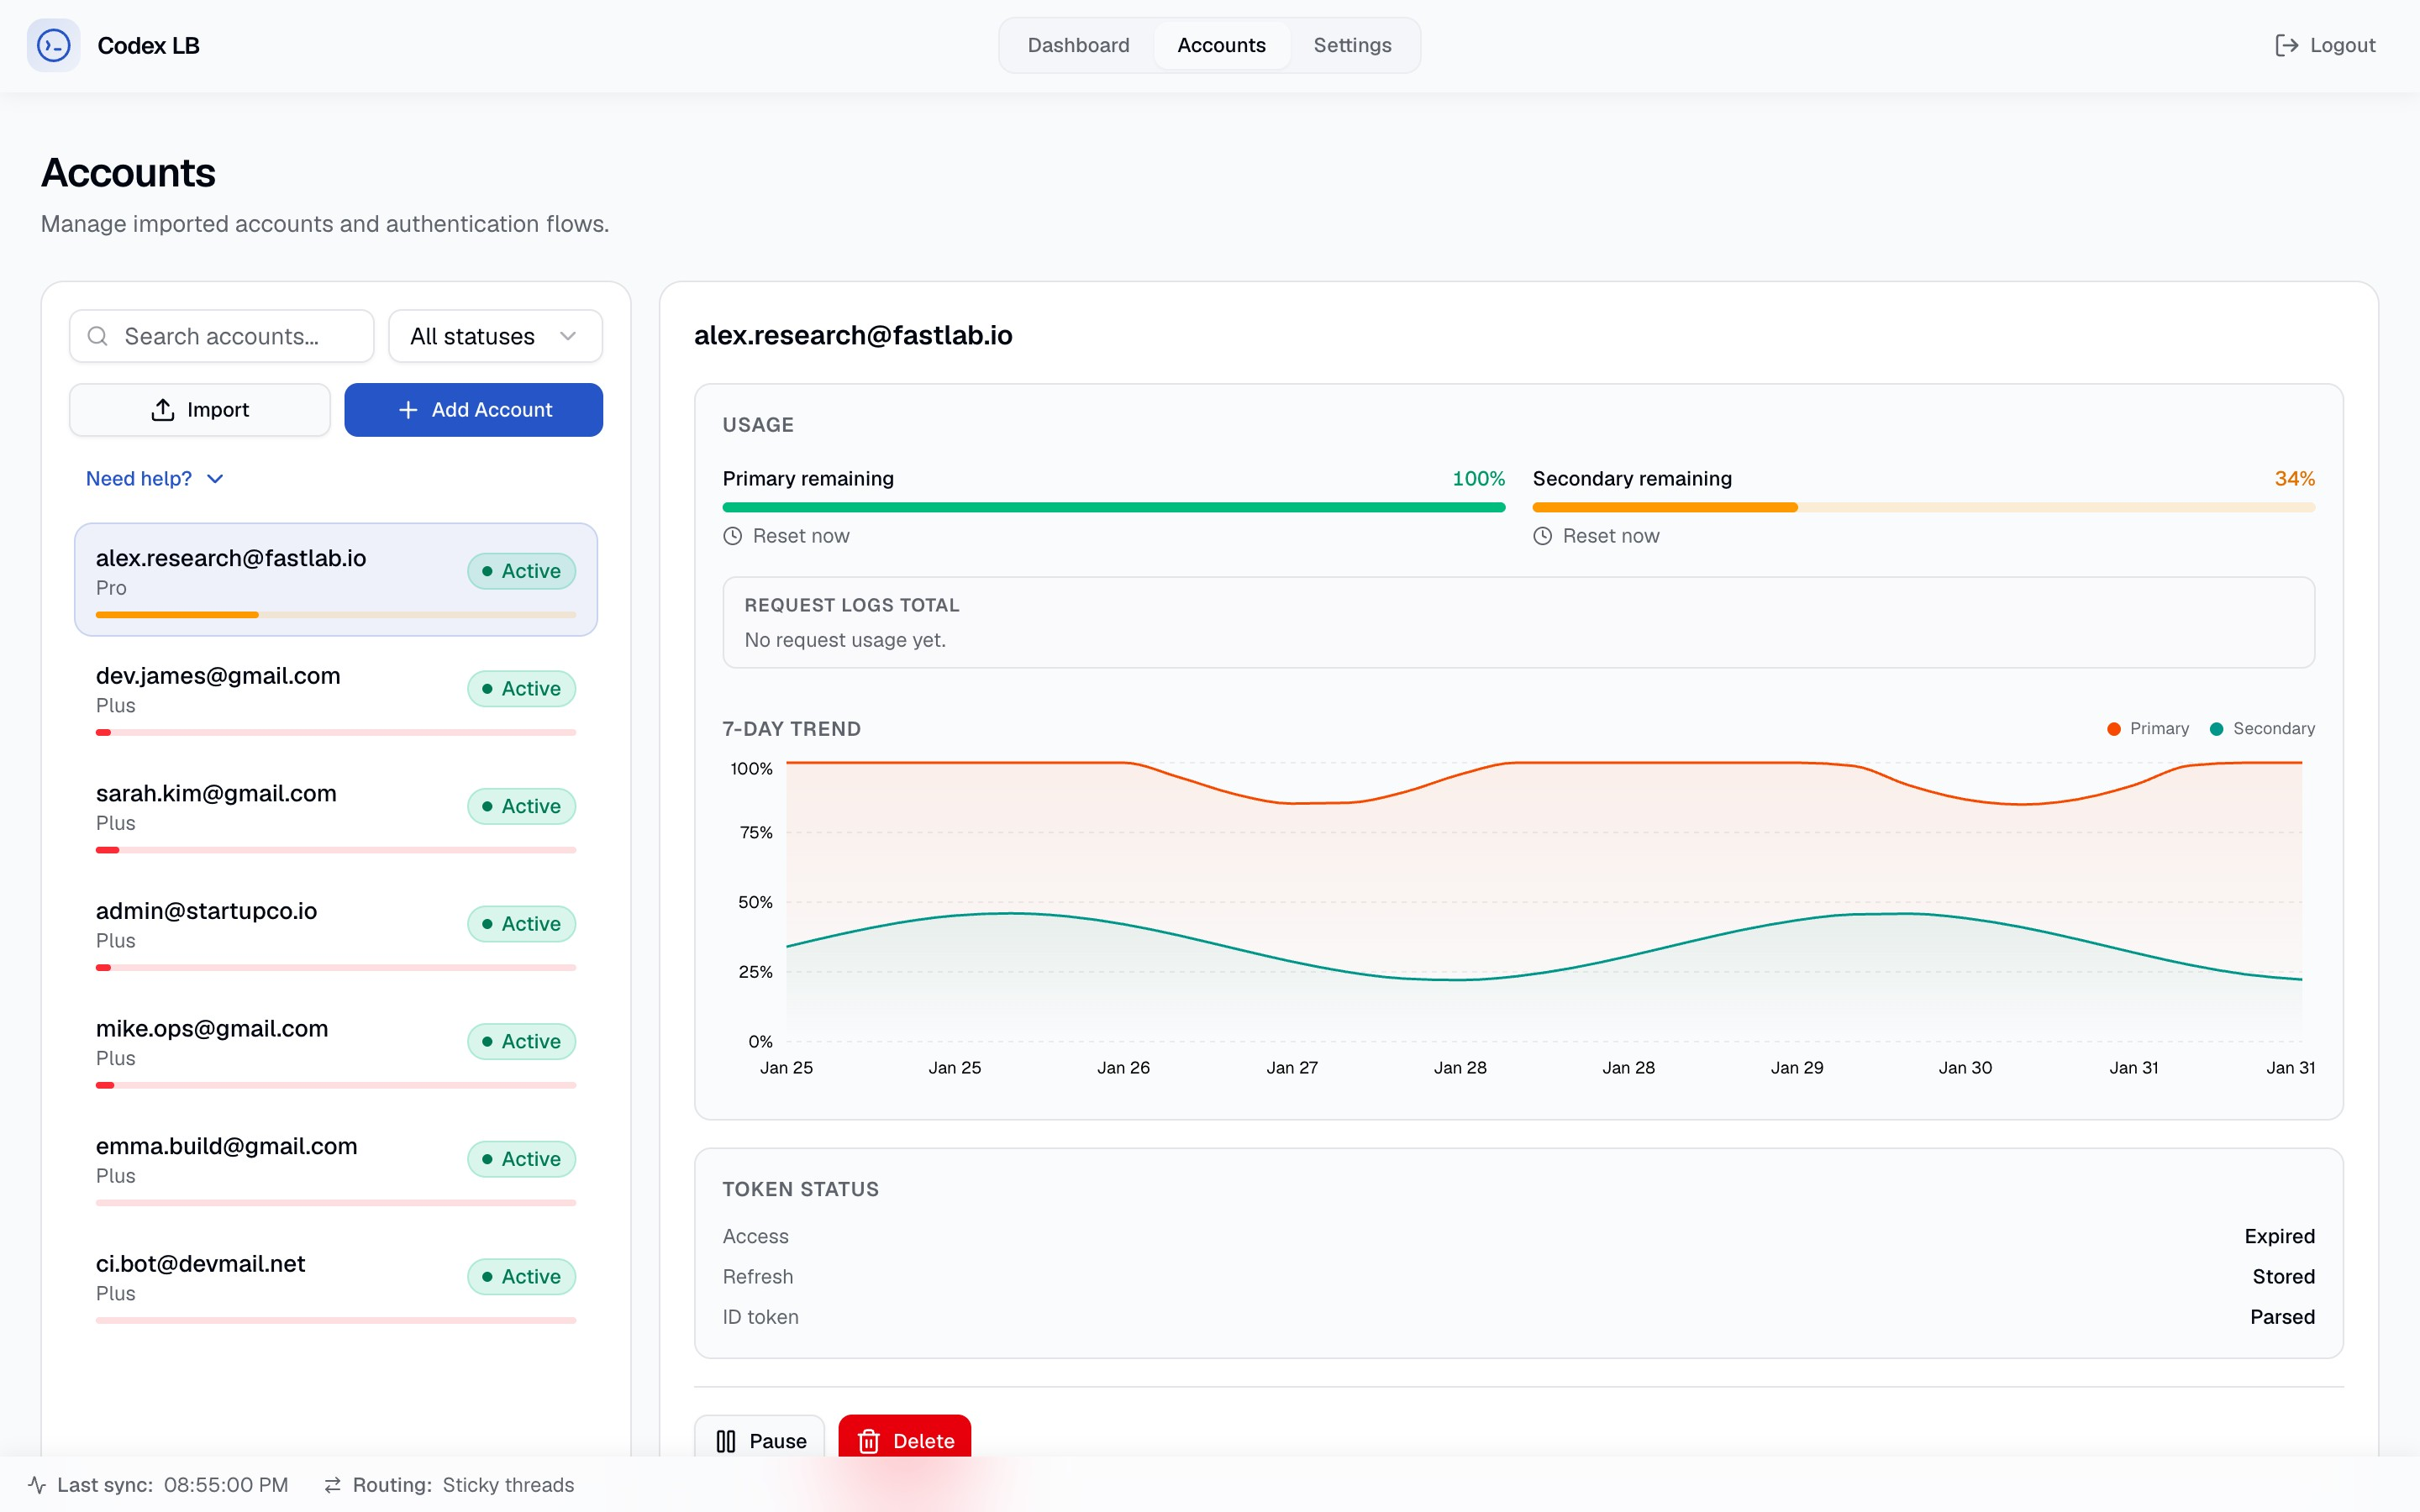
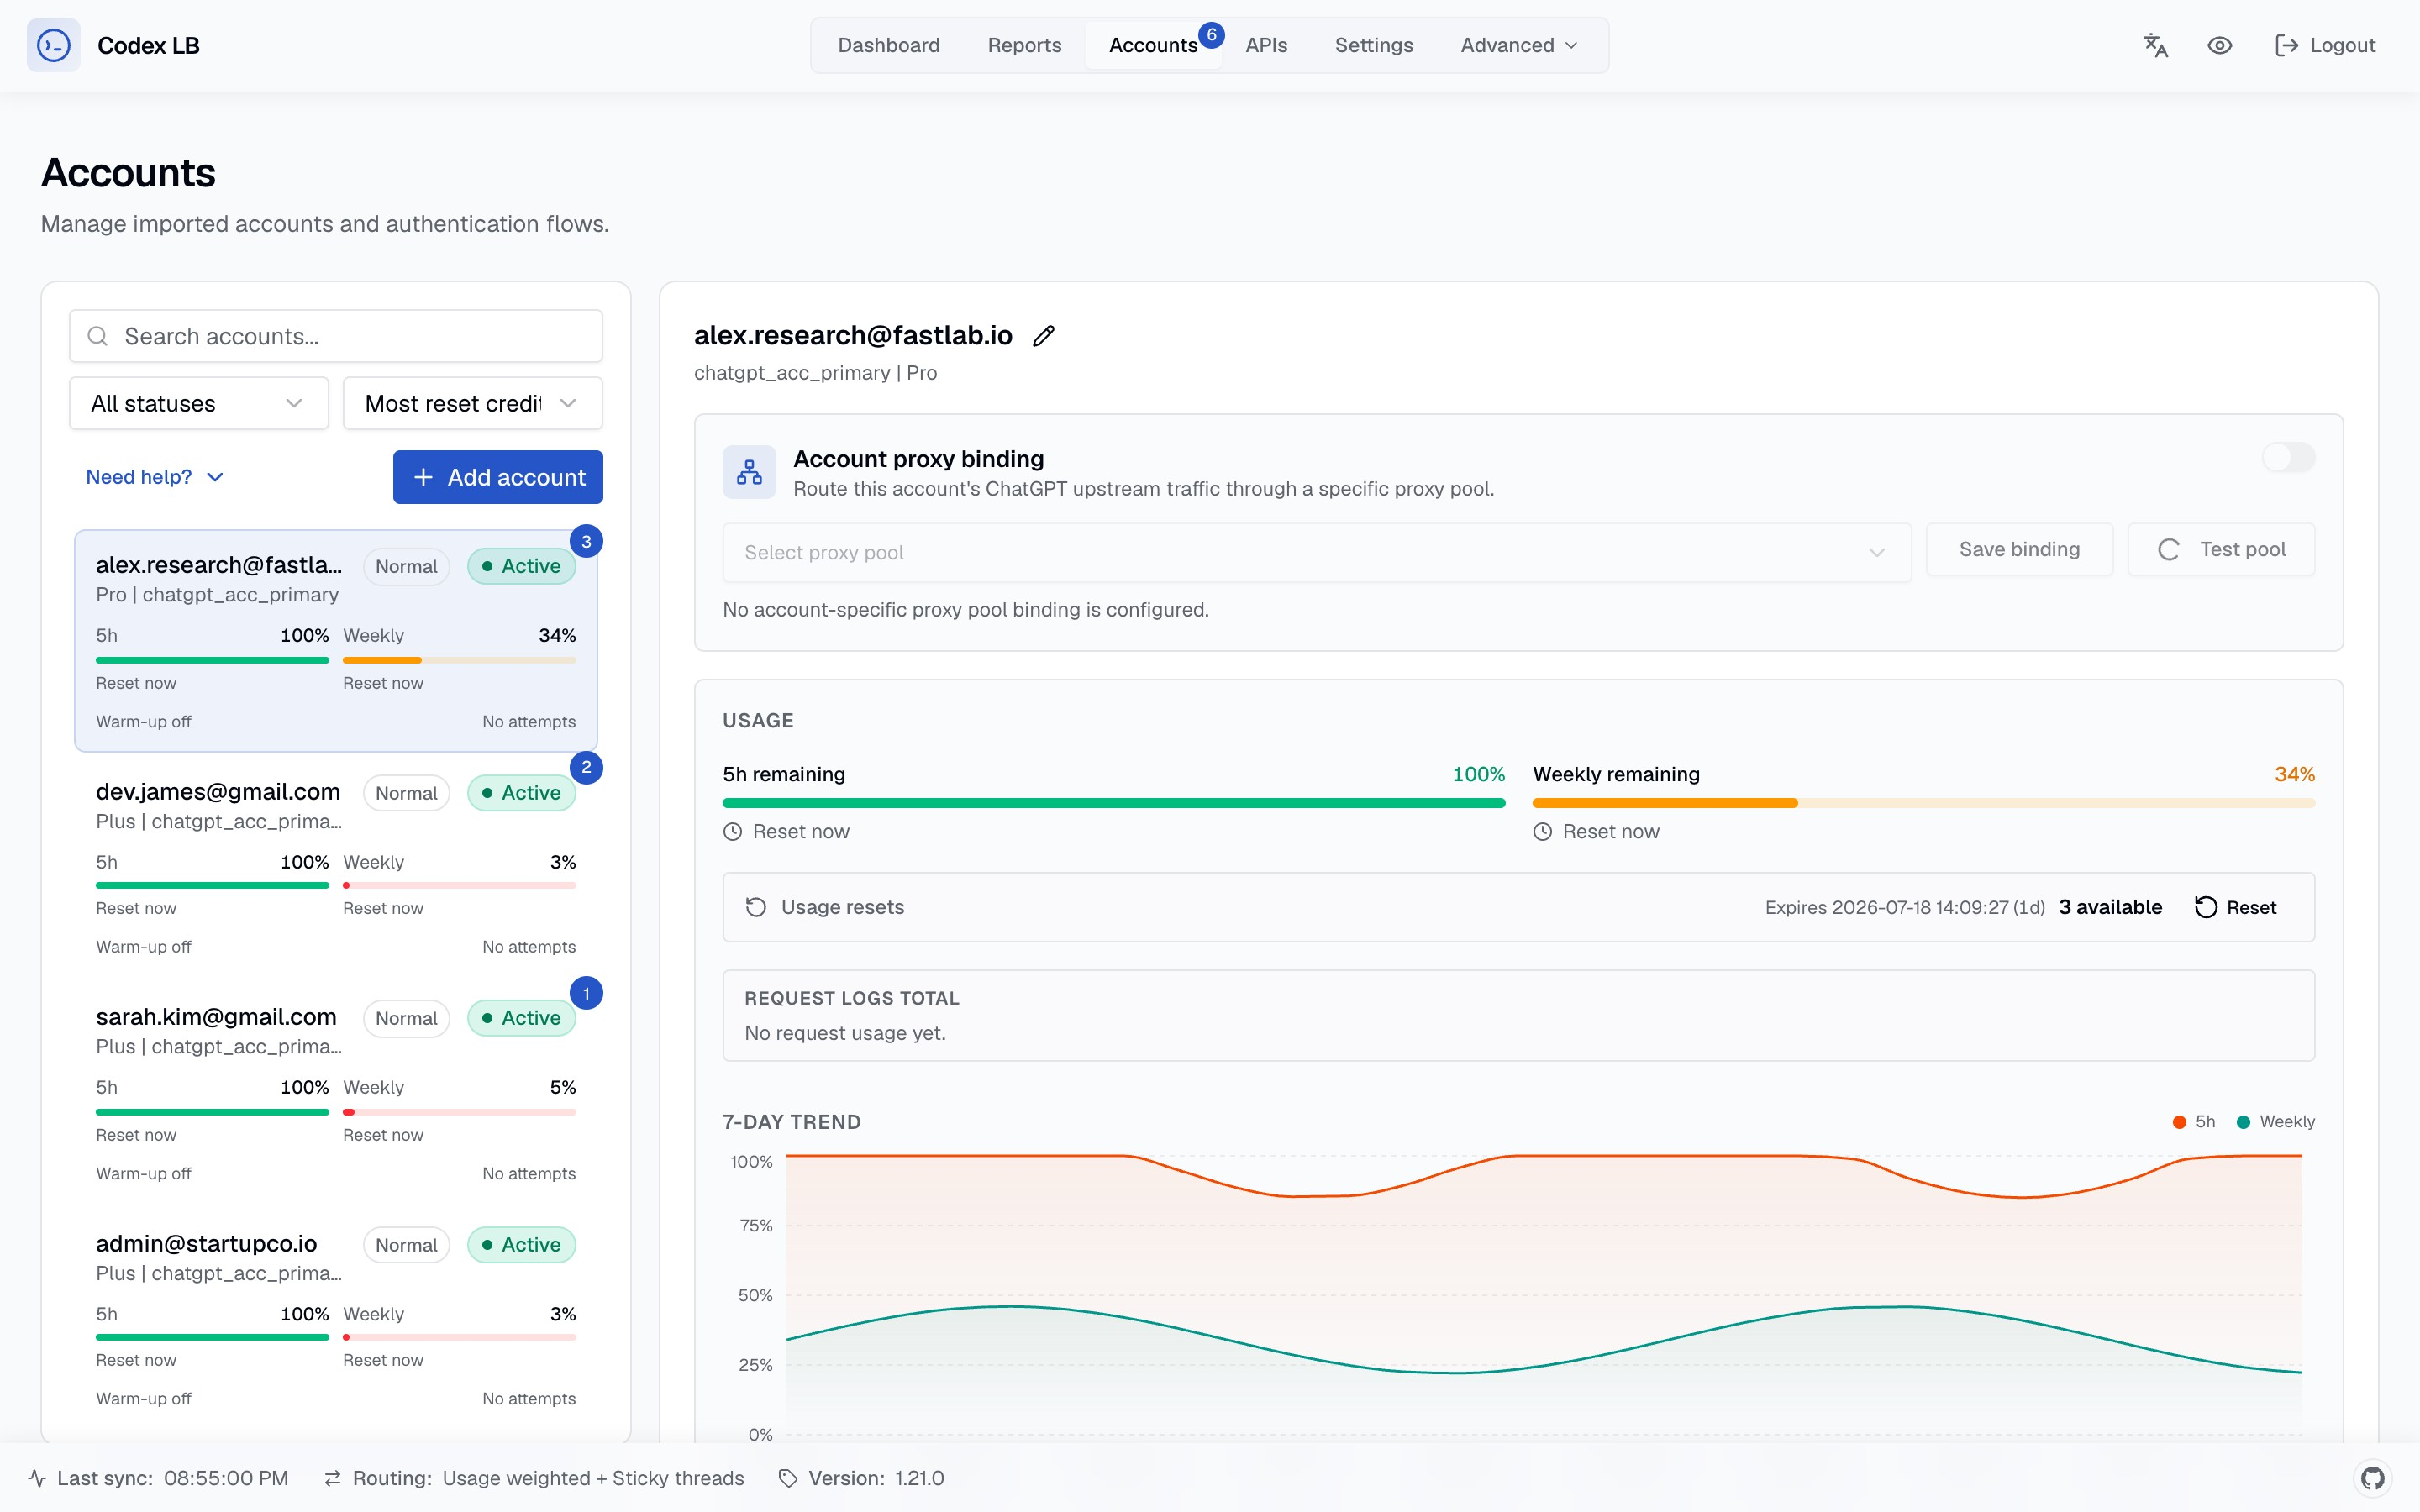
docs(screenshots): show reset-credit account badges

diff --git a/frontend/screenshots/fixtures.ts b/frontend/screenshots/fixtures.ts
@@ -8,10 +8,12 @@ import {
   createRequestLogEntry,
   createRequestLogFilterOptions,
   createRequestLogsResponse,
+  createUpstreamProxyAdmin,
   type AccountSummary,
   type AccountTrendsResponse,
   type RequestLogEntry,
 } from "../src/test/mocks/factories";
+import type { RateLimitResetCreditsSnapshot } from "../src/features/accounts/schemas";
 
 // ── Time helpers ──
 
@@ -23,6 +25,10 @@ function offsetIso(minutes: number): string {
 
 function trendIso(hoursAgo: number): string {
   return new Date(BASE_TIME.getTime() - hoursAgo * 3600_000).toISOString();
+}
+
+function futureIso(days: number): string {
+  return new Date(Date.now() + days * 24 * 3600_000).toISOString();
 }
 
 // ── 7 accounts (6 plus + 1 pro) — based on real W04 proportions ──
@@ -43,6 +49,8 @@ export const accounts: AccountSummary[] = [
     usage: { primaryRemainingPercent: 100, secondaryRemainingPercent: 34 },
     resetAtPrimary: offsetIso(48),
     resetAtSecondary: offsetIso(3 * 24 * 60),
+    availableResetCredits: 3,
+    resetCreditNearestExpiresAt: futureIso(2),
   }),
   // Plus accounts — distributed remaining traffic
   createAccountSummary({
@@ -54,6 +62,8 @@ export const accounts: AccountSummary[] = [
     usage: { primaryRemainingPercent: 100, secondaryRemainingPercent: 3 },
     resetAtPrimary: offsetIso(52),
     resetAtSecondary: offsetIso(3 * 24 * 60),
+    availableResetCredits: 2,
+    resetCreditNearestExpiresAt: futureIso(4),
   }),
   createAccountSummary({
     accountId: "acc_03",
@@ -64,6 +74,8 @@ export const accounts: AccountSummary[] = [
     usage: { primaryRemainingPercent: 100, secondaryRemainingPercent: 5 },
     resetAtPrimary: offsetIso(55),
     resetAtSecondary: offsetIso(3 * 24 * 60),
+    availableResetCredits: 1,
+    resetCreditNearestExpiresAt: futureIso(7),
   }),
   createAccountSummary({
     accountId: "acc_04",
@@ -492,6 +504,37 @@ export const unauthenticatedSession = createDashboardAuthSession({
 });
 
 export const settings = createDashboardSettings();
+
+export const upstreamProxyAdmin = createUpstreamProxyAdmin({
+  endpoints: [],
+  pools: [],
+  bindings: [],
+});
+
+export const resetCreditSnapshots: Record<string, RateLimitResetCreditsSnapshot> = Object.fromEntries(
+  accounts.map((account) => {
+    const availableCount = account.availableResetCredits ?? 0;
+    const nearestExpiresAt = account.resetCreditNearestExpiresAt ?? null;
+    return [
+      account.accountId,
+      {
+        availableCount,
+        nearestExpiresAt,
+        credits: Array.from({ length: availableCount }, (_, index) => ({
+          id: `${account.accountId}_reset_credit_${index + 1}`,
+          status: "available",
+          resetType: "rate_limit",
+          grantedAt: offsetIso(-24 * 60),
+          expiresAt: nearestExpiresAt,
+          title: "Rate limit reset",
+          description: "Mock dashboard screenshot credit",
+          redeemedAt: null,
+          redeemStartedAt: null,
+        })),
+      },
+    ];
+  }),
+);
 
 export const filterOptions = createRequestLogFilterOptions({
   accountIds: accounts.map((a) => a.accountId),

diff --git a/frontend/screenshots/capture.spec.ts b/frontend/screenshots/capture.spec.ts
@@ -12,13 +12,16 @@ import {
   models,
   overview,
   requestLogs,
+  resetCreditSnapshots,
   settings,
+  upstreamProxyAdmin,
   unauthenticatedSession,
 } from "./fixtures";
 import { createAccountSummary } from "../src/test/mocks/factories";
 
 const __dirname = path.dirname(fileURLToPath(import.meta.url));
 const SCREENSHOT_DIR = path.resolve(__dirname, "../../docs/screenshots");
+const BASE_URL = process.env.SCREENSHOT_BASE_URL ?? "http://localhost:4173";
 const THEME_KEY = "codex-lb-theme";
 const SETTLE_MS = 1500;
 
@@ -70,6 +73,20 @@ async function interceptApi(
       return route.fulfill({ status: 404, contentType: "application/json", body: JSON.stringify({ error: { code: "account_not_found", message: "Account not found" } }) });
     }
     if (p === "/api/settings") return fulfill(route, settings);
+    if (p === "/api/settings/upstream-proxy") return fulfill(route, upstreamProxyAdmin);
+    const usageResetCreditsMatch = p.match(/^\/api\/accounts\/([^/]+)\/usage-reset-credits$/);
+    if (usageResetCreditsMatch) {
+      const accountId = decodeURIComponent(usageResetCreditsMatch[1]);
+      const snapshot = resetCreditSnapshots[accountId];
+      return fulfill(route, {
+        accountId,
+        rateLimitResetCredits: { availableCount: snapshot?.availableCount ?? 0 },
+      });
+    }
+    const resetCreditsMatch = p.match(/^\/api\/accounts\/([^/]+)\/rate-limit-reset-credits$/);
+    if (resetCreditsMatch) {
+      return fulfill(route, resetCreditSnapshots[decodeURIComponent(resetCreditsMatch[1])] ?? null);
+    }
     if (p === "/api/models") return fulfill(route, { models });
     if (p === "/api/api-keys" || p === "/api/api-keys/") return fulfill(route, apiKeys);
 
@@ -116,7 +133,7 @@ async function capture(
     (document.head ?? document.documentElement).appendChild(style);
   }, DISABLE_ANIMATIONS_CSS);
 
-  await page.goto(`http://localhost:4173${opts.route}`, { waitUntil: "networkidle" });
+  await page.goto(`${BASE_URL}${opts.route}`, { waitUntil: "networkidle" });
 
   if (opts.waitFor) {
     await page.waitForSelector(opts.waitFor, { timeout: 10_000 });
@@ -183,7 +200,7 @@ test("accounts list keeps many rows in an internal scroll region", async ({ page
     (document.head ?? document.documentElement).appendChild(style);
   }, DISABLE_ANIMATIONS_CSS);
   await page.setViewportSize({ width: 1440, height: 1200 });
-  await page.goto("http://localhost:4173/accounts", { waitUntil: "networkidle" });
+  await page.goto(`${BASE_URL}/accounts`, { waitUntil: "networkidle" });
   await page.waitForSelector('[data-testid="account-list-scroll-region"]', { timeout: 10_000 });
 
   const scrollRegion = page.getByTestId("account-list-scroll-region");
@@ -277,7 +294,7 @@ test("accounts list card ends after the final row when all accounts fit", async 
     (document.head ?? document.documentElement).appendChild(style);
   }, DISABLE_ANIMATIONS_CSS);
   await page.setViewportSize({ width: 1440, height: 1200 });
-  await page.goto("http://localhost:4173/accounts", { waitUntil: "networkidle" });
+  await page.goto(`${BASE_URL}/accounts`, { waitUntil: "networkidle" });
 
   const scrollRegion = page.getByTestId("account-list-scroll-region");
   const listCard = page.getByTestId("accounts-list-card");

diff --git a/frontend/screenshots/playwright.config.ts b/frontend/screenshots/playwright.config.ts
@@ -1,5 +1,10 @@
 import { defineConfig } from "@playwright/test";
 
+const screenshotPort = Number(process.env.SCREENSHOT_PORT ?? "4173");
+const screenshotWebServerCommand =
+  process.env.SCREENSHOT_WEBSERVER_COMMAND ??
+  `bun run build && bun run preview --port ${screenshotPort}`;
+
 export default defineConfig({
   testDir: ".",
   testMatch: "capture.spec.ts",
@@ -13,8 +18,8 @@ export default defineConfig({
     },
   },
   webServer: {
-    command: "bun run build && bun run preview --port 4173",
-    port: 4173,
+    command: screenshotWebServerCommand,
+    port: screenshotPort,
     reuseExistingServer: !process.env.CI,
     timeout: 120_000,
   },